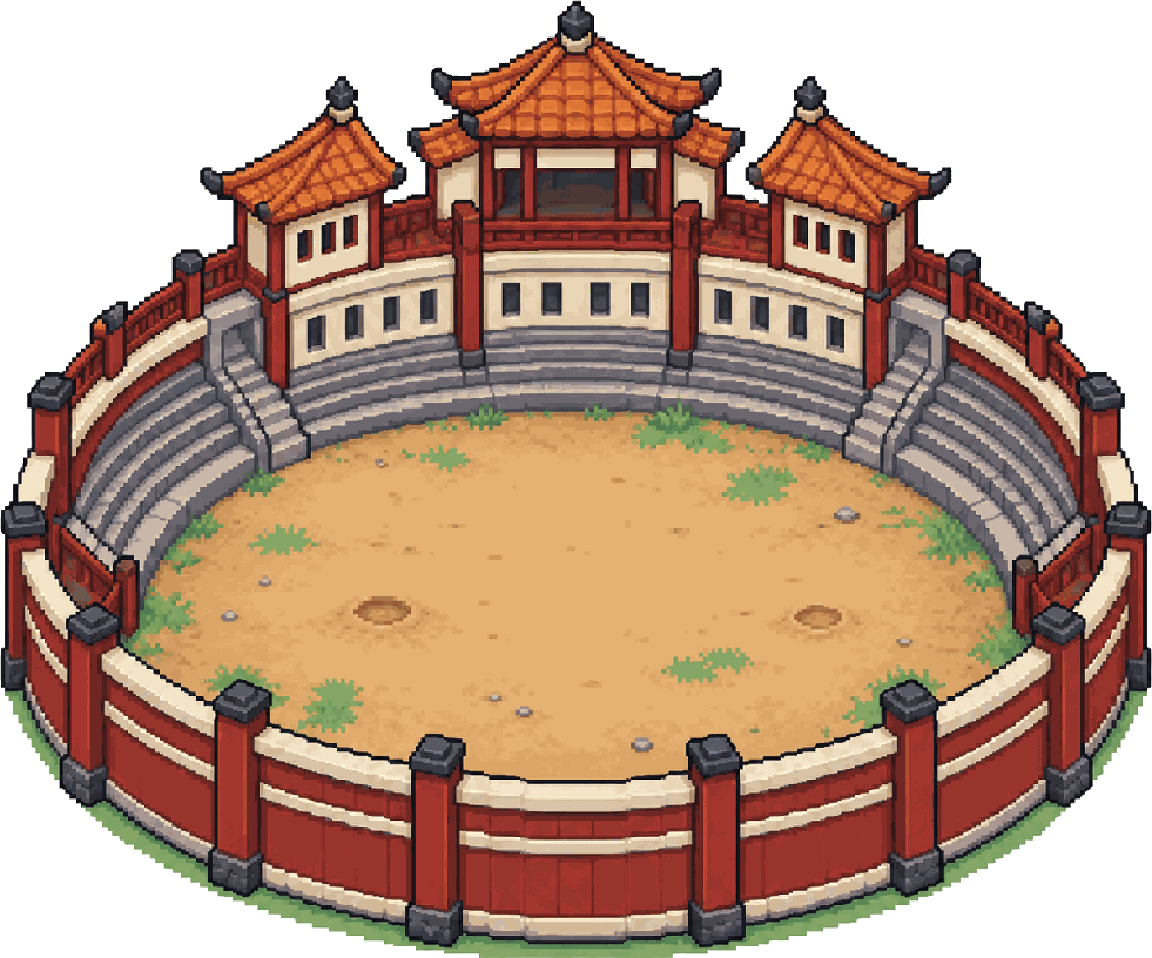
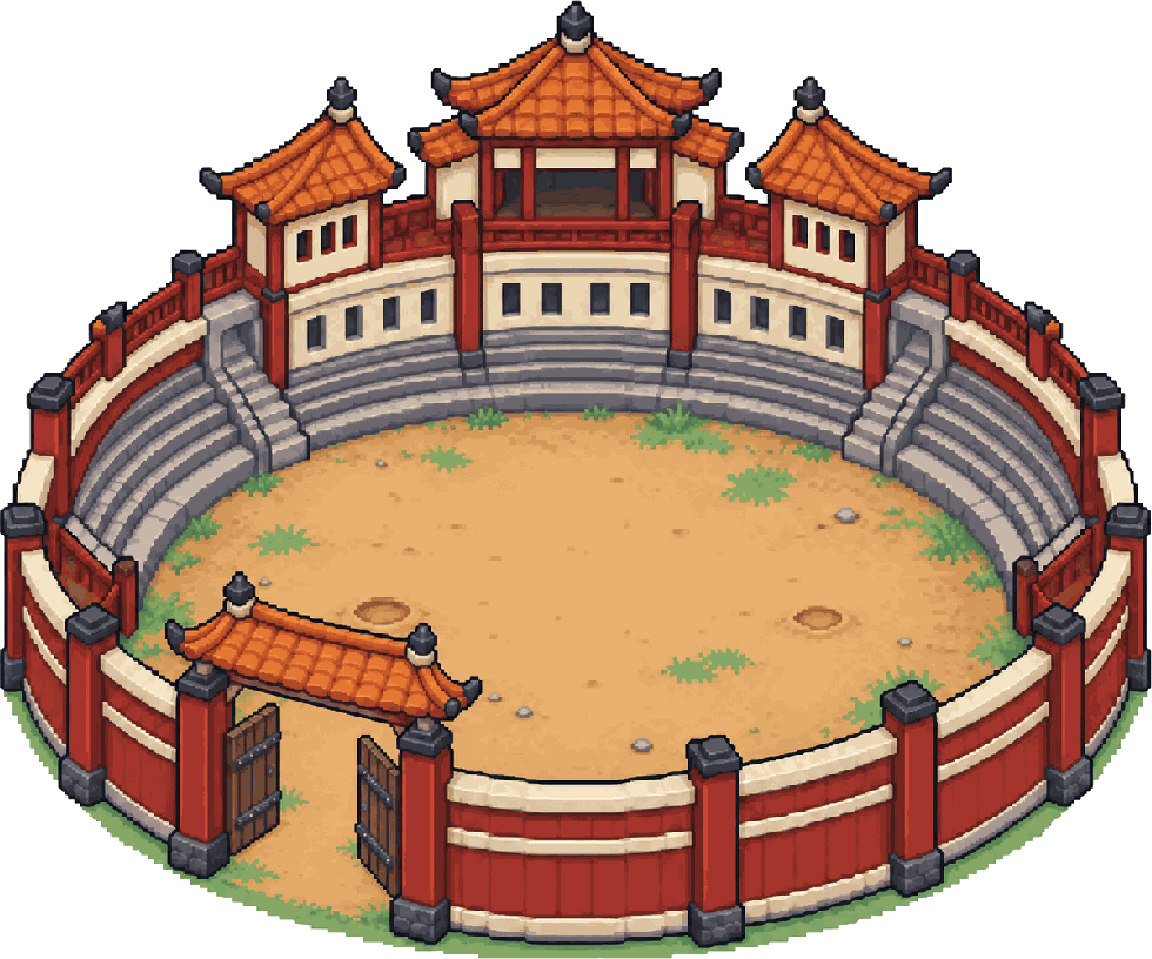
Arena como cercado: muro bloqueia todo mundo e só se entra pelo portão (arte nova com portão); desenhada em camadas (fundo atrás de quem está dentro, muro da frente na frente, telhado do portão por cima de quem passa), quem está fora fica atrás ou na frente da arena inteira, transparência só em muro

diff --git a/src/render/renderer.ts b/src/render/renderer.ts
@@ -49,7 +49,9 @@ const NO_OVERLAY: Overlay = { group: [], hoverUnitId: null, selectBox: null };
 /** Tiles de névoa em volta do mapa (só na textura). */
 const FOG_PAD = 3;
 
-type Drawable = { y: number; x: number; /** chave de profundidade (começa em y) */ k?: number; b?: Building; n?: ResourceNode; u?: Unit; site?: Site; deco?: Deco };
+type Drawable = { y: number; x: number; /** chave de profundidade (começa em y) */ k?: number; b?: Building; n?: ResourceNode; u?: Unit; site?: Site; deco?: Deco;
+  /** Cercado (arena) desenhado em duas peças: fundo atrás de quem está dentro, muro da frente na frente. */
+  part?: 'back' | 'front' };
 
 /**
  * Desenho isométrico em duas passadas:
@@ -222,7 +224,7 @@ export class Renderer {
     ctx.restore();
 
     // decalques: campos com arte isométrica (fazenda, treino, horta) ficam no chão, sob todo mundo
-    for (const b of s.buildings) if (BUILDINGS[b.type].walkable && art(b.type)) this.building(b, time, night, s.level);
+    for (const b of s.buildings) if (BUILDINGS[b.type].walkable && !BUILDINGS[b.type].enclosure && art(b.type)) this.building(b, time, night, s.level);
     this.drawHarvest(g);
 
     // ================= passada 2: em pé, do fundo para a frente =================
@@ -236,7 +238,20 @@ export class Renderer {
     const list = this.list;
     list.length = 0;
     for (const b of s.buildings) {
-      if (BUILDINGS[b.type].walkable) continue;
+      const def = BUILDINGS[b.type];
+      if (def.enclosure && art(b.type)) {
+        // arena: o fundo entra na profundidade do muro de trás; o muro da frente, na do muro da frente
+        const c = buildingCenter(b);
+        const r = (def.w * TILE) / 2 / Math.SQRT2;
+        const back = project(c.x - r, c.y - r);
+        const front = project(c.x + r, c.y + r);
+        if (seen(project(c.x, c.y))) {
+          list.push({ x: back.x, y: back.y, b, part: 'back' });
+          list.push({ x: front.x, y: front.y, b, part: 'front' });
+        }
+        continue;
+      }
+      if (def.walkable) continue;
       const c = buildingCenter(b);
       const p = project(c.x, c.y);
       if (seen(p)) list.push({ x: p.x, y: p.y, b });
@@ -266,7 +281,7 @@ export class Renderer {
     // diante de uma face frontal do prédio (x além da direita ou y além do fundo do retângulo) vem depois dele;
     // as outras próximas vêm antes.
     for (const d of list) d.k = d.y;
-    const blocks = list.filter((d) => d.b);
+    const blocks = list.filter((d) => d.b && !d.part);
     for (const d of list) {
       if (d.b) continue;
       const wx = d.u ? d.u.x / TILE : d.deco ? d.deco.x / TILE : d.n ? d.n.tx + 0.5 : d.site!.tx + 0.5;
@@ -278,6 +293,23 @@ export class Renderer {
         const front = wx >= b.tx + def.w || wy >= b.ty + def.h;
         if (front && d.k! <= o.y) d.k = o.y + 0.01;
         else if (!front && d.k! >= o.y) d.k = o.y - 0.01;
+      }
+    }
+    // cercado (arena): quem está fora do círculo fica atrás de tudo dele (se está atrás do centro) ou na frente de tudo
+    // (se está na frente) — senão uma rocha ou um ninja colado do lado de fora aparece em cima do muro
+    for (const back of list) {
+      if (back.part !== 'back') continue;
+      const b = back.b!;
+      const front = list.find((o) => o.part === 'front' && o.b === b)!;
+      const c = buildingCenter(b);
+      const r = (BUILDINGS[b.type].w * TILE) / 2;
+      for (const d of list) {
+        if (d.b) continue;
+        const wx = d.u ? d.u.x : d.deco ? d.deco.x : d.n ? (d.n.tx + 0.5) * TILE : (d.site!.tx + 0.5) * TILE;
+        const wy = d.u ? d.u.y : d.deco ? d.deco.y : d.n ? (d.n.ty + 0.5) * TILE : (d.site!.ty + 0.5) * TILE;
+        const dist = Math.hypot(wx - c.x, wy - c.y);
+        if (dist < r - 4 || dist > r + 3 * TILE) continue;
+        d.k = wx + wy < c.x + c.y ? Math.min(d.k!, back.k! - 0.01) : Math.max(d.k!, front.k! + 0.01);
       }
     }
     list.sort((a, b) => a.k! - b.k!);
@@ -294,7 +326,7 @@ export class Renderer {
     for (const d of list) {
       if (d.b || d.n) {
         // quem tapa uma unidade fica semitransparente (some e volta suavemente)
-        const key = d.b ? `b${d.b.id}` : `n${d.n!.id}`;
+        const key = d.b ? `b${d.b.id}${d.part ?? ""}` : `n${d.n!.id}`;
         const target = occluded.has(d) ? 0.38 : 1;
         const cur = this.fade.get(key) ?? 1;
         const a = cur + (target - cur) * Math.min(1, dt * 10 || 1);
@@ -302,7 +334,8 @@ export class Renderer {
         else this.fade.set(key, a);
         ctx.globalAlpha = a;
       }
-      if (d.b) this.building(d.b, time, night, s.level);
+      if (d.b && d.part) this.enclosurePart(d.b, d.part);
+      else if (d.b) this.building(d.b, time, night, s.level);
       else if (d.site) this.drawSite(d.site, d.x, d.y, time, sel?.kind === 'site' && sel.id === d.site.id);
       else if (d.deco) drawDeco(ctx, d.deco, d.x, d.y, time);
       else if (d.n) {
@@ -430,7 +463,11 @@ export class Renderer {
     if (!bodies.length) return out;
     list.forEach((d, i) => {
       let r: { x0: number; x1: number; y0: number; y1: number } | null = null;
-      if (d.b) {
+      if (d.b && d.part) {
+        // peça do cercado: o fundo tapa quem está atrás do muro de trás; a frente, quem está colado no muro da frente
+        const e = this.enclosureGeom(d.b);
+        if (e) r = d.part === 'back' ? { x0: e.left, x1: e.left + e.w, y0: e.top, y1: e.ey - e.ery * 0.6 } : { x0: e.ex - e.erx, x1: e.ex + e.erx, y0: e.ey + e.ery * 0.55, y1: e.top + e.h };
+      } else if (d.b) {
         const { front, width } = this.footprint(d.b.type, d.b.tx, d.b.ty);
         const pic = art(d.b.type);
         const h = pic ? (width / pic.naturalWidth) * pic.naturalHeight : width * 0.8;
@@ -441,6 +478,66 @@ export class Renderer {
       if (bodies.some((u) => u.i < i && u.x > r.x0 + 4 && u.x < r.x1 - 4 && u.y > r.y0 && u.y < r.y1)) out.add(d);
     });
     return out;
+  }
+
+  /** Onde a arte do cercado fica na cena e a elipse do chão nela (para cortar fundo / muro da frente). */
+  private enclosureGeom(b: Building) {
+    const d = BUILDINGS[b.type];
+    const pic = art(b.type);
+    if (!pic || !d.enclosure) return null;
+    const { front, width } = this.footprint(b.type, b.tx, b.ty);
+    const h = ((width * (ART_SCALE[b.type] ?? 1)) / pic.naturalWidth) * pic.naturalHeight;
+    const w = (h / pic.naturalHeight) * pic.naturalWidth;
+    const left = front.x - w / 2;
+    const top = front.y + 4 - h;
+    const f = d.enclosure.floor;
+    return { pic, front, left, top, w, h, ex: left + f.cx * w, ey: top + f.cy * h, erx: f.rx * w, ery: f.ry * h };
+  }
+
+  /**
+   * Uma peça do cercado (arena): `back` = tudo menos o muro da frente (chão, arquibancada, muro de trás), desenhado
+   * atrás de quem está dentro; `front` = o muro da frente (abaixo da borda de baixo do chão), na frente de quem está
+   * dentro e atrás de quem está do lado de fora.
+   */
+  private enclosurePart(b: Building, part: 'back' | 'front') {
+    const e = this.enclosureGeom(b);
+    if (!e) return;
+    const ctx = this.ctx;
+    const d = BUILDINGS[b.type];
+    const fade = ctx.globalAlpha; // transparência de quem tapa alguém (só muros e arquibancada; o chão fica firme)
+    ctx.save();
+    const built = b.built ? 1 : 0.35 + 0.45 * Math.min(1, b.progress / Math.max(1, d.buildTime));
+    if (part === 'back' && fade < 1) {
+      ctx.save();
+      ctx.globalAlpha = built;
+      ctx.beginPath();
+      ctx.ellipse(e.ex, e.ey, e.erx, e.ery, 0, 0, Math.PI * 2);
+      ctx.clip();
+      drawArt(ctx, e.pic, e.front.x, e.front.y + 4, e.h);
+      ctx.restore();
+      ctx.beginPath();
+      ctx.ellipse(e.ex, e.ey, e.erx, e.ery, 0, 0, Math.PI * 2); // o chão sai do recorte (já foi desenhado)
+    } else ctx.beginPath();
+    ctx.globalAlpha = fade * built;
+    if (part === 'back') ctx.rect(e.left - 2, e.top - 20, e.w + 4, e.h + 40);
+    // região do muro da frente: abaixo da metade de baixo da elipse do chão (e das laterais dela) + o telhado do
+    // portão; um polígono só (amostrado em x) para o "fundo" ser o resto (evenodd)
+    const arch = d.enclosure!.arch;
+    const N = 64;
+    for (let i = 0; i <= N; i++) {
+      const x = e.left - 2 + ((e.w + 4) * i) / N;
+      const u = (x - e.ex) / e.erx;
+      let y = Math.abs(u) <= 1 ? e.ey + e.ery * Math.sqrt(1 - u * u) : e.ey;
+      if (arch && x >= e.left + arch.x0 * e.w && x <= e.left + arch.x1 * e.w) y = Math.min(y, e.top + arch.y0 * e.h);
+      if (i === 0) ctx.moveTo(x, y);
+      else ctx.lineTo(x, y);
+    }
+    ctx.lineTo(e.left + e.w + 2, e.top + e.h + 20);
+    ctx.lineTo(e.left - 2, e.top + e.h + 20);
+    ctx.closePath();
+    ctx.clip(part === 'back' ? 'evenodd' : 'nonzero');
+    drawArt(ctx, e.pic, e.front.x, e.front.y + 4, e.h);
+    ctx.restore();
   }
 
   /** Ponta da frente do losango da base (onde o sprite do prédio apoia) e largura do losango, na cena. */

diff --git a/src/data/buildings.ts b/src/data/buildings.ts
@@ -43,6 +43,12 @@ export interface BuildingDef {
   buildable: boolean;
   /** Pode ser atravessado (campos, áreas abertas). */
   walkable?: boolean;
+  /**
+   * Cercado andável por dentro (arena): o anel de tiles da borda é muro (bloqueia todo mundo) menos o portão
+   * (`gate`: tiles relativos ao canto). `floor`: elipse do chão na arte (0–1 da imagem), onde o renderer corta o
+   * desenho em fundo (atrás de quem está dentro) e muro da frente (na frente de quem está dentro).
+   */
+  enclosure?: { gate: [number, number][]; floor: { cx: number; cy: number; rx: number; ry: number }; /** telhado do portão (0–1): também vai na frente */ arch?: { x0: number; x1: number; y0: number } };
   /** Cura por segundo para quem descansa na porta. */
   healRate?: number;
   /** Desenha janelas acesas à noite. */
@@ -162,6 +168,7 @@ const LIST: BuildingDef[] = [
   {
     type: 'arena', name: 'Arena do Exame', icon: '{arena}', desc: 'Sedia o Exame Chunin: genins lutam 1×1 e os melhores são promovidos.',
     w: 6, h: 6, cost: { wood: 80, stone: 60, ryo: 50 }, buildTime: 22, unique: true, buildable: true, walkable: true, minLevel: 1,
+    enclosure: { gate: [[2, 5], [3, 5]], floor: { cx: 0.5, cy: 0.615, rx: 0.395, ry: 0.197 }, arch: { x0: 0.13, x1: 0.43, y0: 0.585 } },
     roof: '#8a6a3a', wall: '#c9a66b',
   },
   {

diff --git a/tests/exam.test.ts b/tests/exam.test.ts
@@ -44,12 +44,27 @@ describe('Exame Chunin', () => {
     a.knockT = 0;
     run(g, SIM_DT);
     expect(Math.hypot(a.x - ring.cx, a.y - ring.cy)).toBeLessThanOrEqual(ring.r);
-    // empurrado para fora por um golpe: perde
-    b.x = ring.cx + ring.r - 4;
+    // o muro segura o empurrão (ninguém atravessa a parede)
+    b.x = ring.cx + ring.r - 30;
     b.y = ring.cy;
-    push(g, b, 60, 0);
+    push(g, b, 80, 0);
+    expect(g.world.walkablePx(b.x, b.y)).toBe(true);
+    expect(Math.hypot(b.x - ring.cx, b.y - ring.cy)).toBeLessThan(ring.r);
+    // empurrado para fora pelo portão: perde
+    b.x = ring.cx;
+    b.y = ring.cy + ring.r - 20;
+    push(g, b, 0, 80);
     run(g, SIM_DT);
     expect(ex.entrants.find((e) => e.id === b.id)!.out).toBe(true);
+  });
+
+  test('arena é cercado: muro bloqueia, portão deixa passar', () => {
+    const g = setup(13, 2);
+    const a = g.state.buildings.find((b) => b.type === 'arena')!;
+    g.world.rebuild();
+    expect(g.world.walkable(a.tx, a.ty + 2)).toBe(false); // muro do lado
+    expect(g.world.walkable(a.tx + 2, a.ty + 5)).toBe(true); // portão
+    expect(g.world.walkable(a.tx + 2, a.ty + 2)).toBe(true); // chão
   });
 
   test('save 23: a arena que cresceu não fica em cima de outro prédio', () => {

diff --git a/src/game/world.ts b/src/game/world.ts
@@ -53,6 +53,9 @@ export class World {
           const i = idx(x, y);
           this.occupied[i] = b.id;
           if (!d.walkable) this.blocked[i] = 1;
+          // cercado (arena): a borda é muro, menos o portão; só se entra e sai por ele
+          else if (d.enclosure && b.built && (x === b.tx || y === b.ty || x === b.tx + d.w - 1 || y === b.ty + d.h - 1))
+            if (!d.enclosure.gate.some(([gx, gy]) => b.tx + gx === x && b.ty + gy === y)) this.blocked[i] = 1;
         }
       const m = VILLAGE_MARGIN * TILE;
       this.villageRects.push({ x0: b.tx * TILE - m, y0: b.ty * TILE - m, x1: (b.tx + d.w) * TILE + m, y1: (b.ty + d.h) * TILE + m });

diff --git a/src/game/save.ts b/src/game/save.ts
@@ -188,6 +188,13 @@ const MIGRATIONS: Record<number, (s: any) => void> = {
           }
     }
   },
+  24: (s) => {
+    // a arena virou cercado (muro com portão): árvore/rocha que ficou dentro dela (cresceu ou foi deslocada) sai
+    const W = BUILDINGS.arena.w;
+    for (const a of s.buildings ?? [])
+      if (a.type === 'arena')
+        s.nodes = (s.nodes ?? []).filter((n: { tx: number; ty: number }) => n.tx < a.tx || n.tx >= a.tx + W || n.ty < a.ty || n.ty >= a.ty + W);
+  },
 };
 
 // eslint-disable-next-line @typescript-eslint/no-explicit-any

diff --git a/src/game/systems/villagers.ts b/src/game/systems/villagers.ts
@@ -287,6 +287,7 @@ export function completeBuilding(g: Game, b: Building) {
   const def = BUILDINGS[b.type];
   b.built = true;
   b.progress = def.buildTime;
+  if (def.enclosure) g.world.rebuild(); // cercado pronto: os muros passam a bloquear
   g.toast(`${def.icon} ${def.name} concluída!`, 'good', doorPos(b));
 }
 

diff --git a/src/config.ts b/src/config.ts
@@ -15,7 +15,7 @@ export const FOOD_PER_DAY = 5;
 export const VILLAGE_MARGIN = 5;
 
 export const SAVE_KEY = 'villageninja.save.v1';
-export const SAVE_VERSION = 24;
+export const SAVE_VERSION = 25;
 export const AUTOSAVE_INTERVAL = 20;
 
 export const MAX_DPR = 2;

diff --git a/CLAUDE.md b/CLAUDE.md
@@ -171,7 +171,12 @@ TypeScript + Bun + Canvas 2D, **sem engine e sem dependências em runtime**. Idi
   a máscara é escolhida ao nomear (`NinjaInfo.mask`, qualquer animal) e dá +1 no atributo que ela representa (`maskKey`). Invisíveis (`cloak`) só com inimigo à vista (`ANBU.alert`) e até atacar — emboscada (`anbuAmbush`) —, ficam na
   rua à noite patrulhando, revelam espiões como o espião da vila e acodem o Kage com Shunshin (`anbuTick`). Missão secreta
   na Região: ação `covert` (`startCovert`, expedição com `teamId -1`): metade do saque sem infâmia se não forem descobertos.
-- **Arena do Exame redonda** (6×6, arte de coliseu com arquibancada atrás e muro baixo na frente; `game/arena.ts`): os dois do duelo ficam no círculo (`arenaRing`): Shunshin e Kawarimi
+- **Cercados** (`BuildingDef.enclosure`, hoje a arena): andável por dentro, mas o anel de tiles da borda é muro
+  (`World.rebuild`) menos o portão (`gate`); ninguém atravessa. Desenho em duas peças (`enclosurePart` no renderer, corte
+  pela elipse do chão `floor` + telhado do portão `arch`): o fundo (chão, arquibancada, muro de trás) atrás de quem está
+  dentro, o muro da frente na frente; quem está fora do círculo vai para trás ou para a frente da arena inteira; com
+  alguém tapado, muros/arquibancada ficam semitransparentes e o chão continua firme. Arte nova = medir a elipse do chão.
+- **Arena do Exame redonda** (6×6, arte de coliseu com portão na frente-esquerda com arquibancada atrás e muro baixo na frente; `game/arena.ts`): os dois do duelo ficam no círculo (`arenaRing`): Shunshin e Kawarimi
   só pousam dentro (`keepInRing`), a distância de luta cabe nele (`ringDesired`) e andar não tira ninguém; empurrado para
   fora por um golpe (`Unit.knockT`, setado em `push`) perde (ring-out, `systems/exam.ts`). Migração 23 desloca a arena que
   cresceu e encostou noutro prédio.
@@ -316,7 +321,7 @@ TypeScript + Bun + Canvas 2D, **sem engine e sem dependências em runtime**. Idi
 
 ## Convenções
 - **Save versionado**: ao adicionar campo no estado, suba `SAVE_VERSION` em `config.ts` e adicione a migração
-  em `game/save.ts` (`MIGRATIONS[n]` transforma vN → vN+1) + teste de migração. Hoje: v24.
+  em `game/save.ts` (`MIGRATIONS[n]` transforma vN → vN+1) + teste de migração. Hoje: v25.
 - Novas mecânicas: arquivo em `systems/` + registrar no índice + testes em `tests/`.
 - Comentários e textos de UI em português; nomes de código em inglês.
 - **Sem emoji**: ícones são SVG (`src/ui/icons.ts`). Textos (dados, toasts, `costLabel`) marcam o ícone com token
